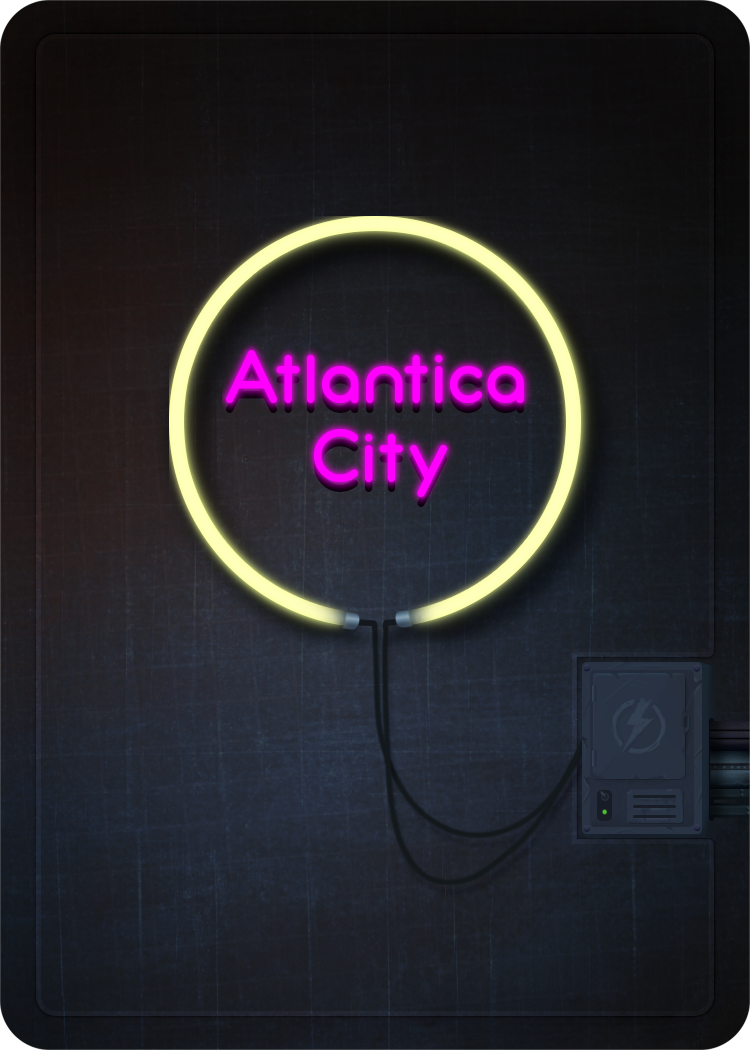
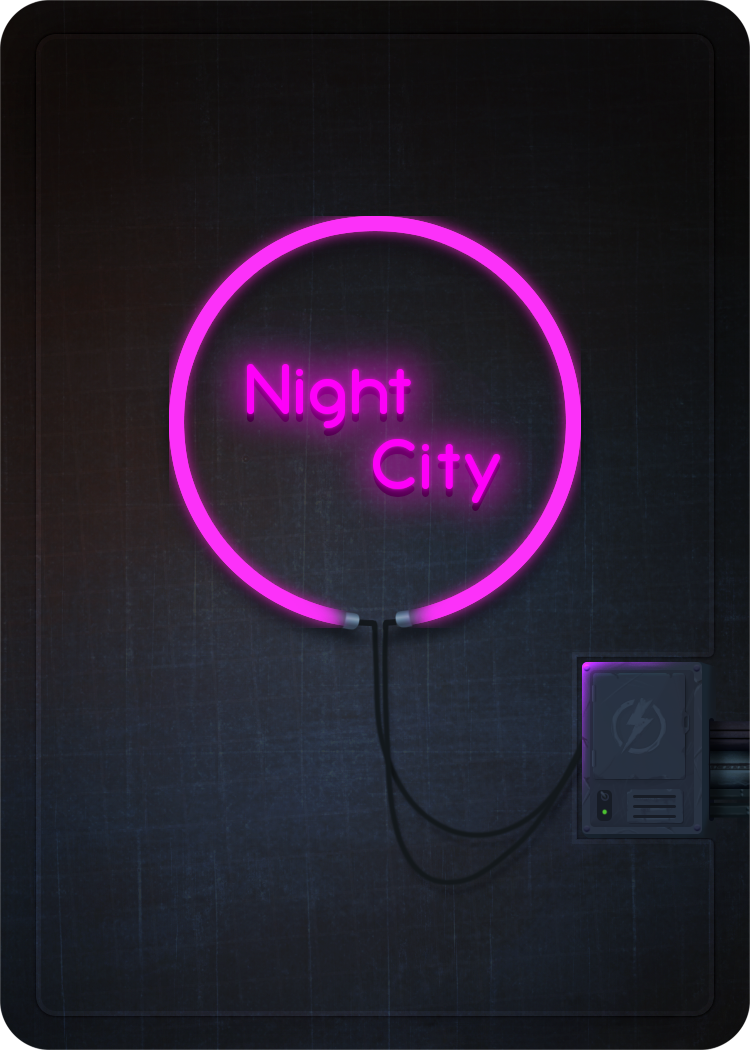
switch to night city

Changed region(s): [[0.2147, 0.1829, 0.7973, 0.6095], [0.7667, 0.6095, 0.8893, 0.7314]]

diff --git a/src/index.html b/src/index.html
@@ -2,7 +2,7 @@
 <html lang="en">
 <head>
   <meta charset="utf-8">
-  <title>Atlantica City</title>
+  <title>Night City</title>
   <base href="/">
   <meta name="viewport" content="width=device-width, initial-scale=1">
   <link rel="icon" type="image/x-icon" href="favicon.ico">
